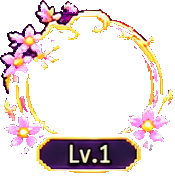
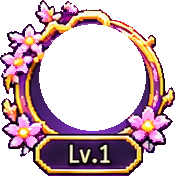
[Hình] Nhiệm vụ ngày: một dấu ✓ (xanh xong, xám chưa), bỏ khung; chân dung: mặt tròn khớp giữa lòng vòng, to hơn
Claude-Session: https://claude.ai/code/session_01BVnJmsGG4jWdJUy17v59Cp

Changed region(s): [[0.0, 0.0852, 1.0, 1.0]]

diff --git a/style-ui-kit.css b/style-ui-kit.css
@@ -61,14 +61,11 @@ body #btn-atk, body[data-le] #btn-atk { background: radial-gradient(circle, #2a1
 body #btn-atk::after, body[data-le] #btn-atk::after { background-image: url("assets/art/ui-k-atk.png") !important; inset: -16% !important; animation: none; }
 body #btn-atk b { opacity: 0; }
 
-/* ---- cột nhiệm vụ hằng ngày: khung bảng góc vàng, đèn lồng treo góc trái ---- */
-body .quest-dock { border: 10px solid transparent; border-image: url("assets/art/ui-k-panel.png") 24 fill / 10px / 0 stretch; image-rendering: auto;
-  padding: 2px 4px; align-items: flex-start; text-align: left; max-width: 40%; font-size: 10.5px; }
-body .quest-dock::before { content: ''; position: absolute; left: -22px; top: -12px; width: 14px; height: 44px; background: url("assets/art/ui-k-den.png") top / contain no-repeat;
-  image-rendering: auto; animation: uk-den 2.4s ease-in-out infinite alternate; transform-origin: top center; pointer-events: none; }
-@keyframes uk-den { from { transform: rotate(-4deg); } to { transform: rotate(4deg); } }
-body .quest-dock .qd-head { align-self: center; color: #ffe6a0; font-size: 12px; margin-bottom: 2px; }
-body .quest-dock .qd-line.done::before { content: '✓ '; color: #6ae07a; }
+/* ---- cột nhiệm vụ hằng ngày: chữ trơn không khung (chủ dự án 02/11/2026 23:06); mỗi dòng một dấu ✓: xanh là xong, xám là chưa (quest-dock.js) ---- */
+body .quest-dock { align-items: flex-start; text-align: left; max-width: 38%; }   /* không chạm cột nút bên trái */
+body .quest-dock .qd-head { align-self: flex-start; }
+.qd-ck { color: #8a8698; margin-right: 3px; }
+.qd-line.done .qd-ck, .qd-line.ready .qd-ck { color: #5ef07a; }
 
 /* ---- ô trò chuyện ---- */
 body .chat-dock .cd-input { border: 6px solid transparent; border-image: url("assets/art/ui-k-chat.png") 12 54 12 12 fill / 6px 24px 6px 6px / 0 stretch; border-right-width: 24px; white-space: nowrap; overflow: hidden;

diff --git a/style-ui-kit2.css b/style-ui-kit2.css
@@ -62,11 +62,11 @@ body #hud #boss .bar { position: absolute; left: 27%; right: 4%; top: 52%; heigh
 body #hud #boss .bar i { background: linear-gradient(#ff7a6a, #c02838); }
 
 /* ---- khung chân dung theo hệ (src/ui/hud-ava.js) ---- */
-body #hud .bars:has(#uk-ava) { position: relative; padding-left: 62px; min-height: 64px; }
-body #hud .bars:has(#uk-ava) .hud-btns { margin-left: -62px; }   /* cột nút vẫn sát mép trái, không đè cột nhiệm vụ */
-#uk-ava { position: absolute; left: -2px; top: -4px; width: 62px; height: 64px; pointer-events: auto; cursor: pointer; }
+body #hud .bars:has(#uk-ava) { position: relative; padding-left: 66px; min-height: 66px; }
+body #hud .bars:has(#uk-ava) .hud-btns { margin-left: -66px; }   /* cột nút vẫn sát mép trái, không đè cột nhiệm vụ */
+#uk-ava { position: absolute; left: -4px; top: -6px; width: 66px; height: 70px; pointer-events: auto; cursor: pointer; }
 #uk-ava canvas { position: absolute; left: 11px; top: 8px; width: 40px; height: 40px; border-radius: 50%; image-rendering: auto; }
-#uk-ava i { position: absolute; inset: 0; background: var(--ava) center top / 62px auto no-repeat; image-rendering: auto; }
+#uk-ava i { position: absolute; inset: 0; background: var(--ava) left top / 66px auto no-repeat; image-rendering: auto; }
 #uk-ava b { position: absolute; left: 50%; bottom: 3px; transform: translateX(-50%); min-width: 34px; padding: 0 3px; background: #2a1838; border-radius: 3px;
   font: 400 11px var(--f-pixel); color: #fff1c8; text-align: center; line-height: 12px; }
 

diff --git a/src/ui/hud-ava.js b/src/ui/hud-ava.js
@@ -5,6 +5,9 @@ import { spriteImage } from '../render/sprites.js';
 import { outfitSprite } from '../render/draw-hero.js';
 
 const FRAME = { moc: 'hoa-sen', hoa: 'hoa', thuy: 'thuy', kim: 'kim', tho: 'kim' };
+// lòng vòng từng khung: [tâm x / rộng, tâm y / cao, bán kính / rộng, cao / rộng] (đo trên hình, tools/art/ui_kit2.py → AVA_HOLE)
+const HOLE = { 'hoa-sen': [0.526, 0.438, 0.314, 1.006], kim: [0.489, 0.451, 0.331, 1.068], thuy: [0.474, 0.469, 0.326, 1.089], hoa: [0.5, 0.458, 0.343, 1.075], phong: [0.481, 0.458, 0.326, 1.067] };
+const W = 66;   // bề ngang khung trên màn hình
 
 export function createHudAva(game) {
   const box = document.createElement('div'); box.id = 'uk-ava'; box.hidden = true;
@@ -23,6 +26,9 @@ export function createHudAva(game) {
     if (k === key) return;
     key = k; lv.textContent = L;
     fr.style.setProperty('--ava', `url("assets/art/ui-k-ava-${fk}.png")`);
+    const [hx, hy, hr, ar] = HOLE[fk], d = Math.round(hr * W * 2) + 2;   // mặt tròn khớp lòng vòng (lớn hơn 2 điểm cho kín mép)
+    Object.assign(cv.style, { width: d + 'px', height: d + 'px', left: Math.round(hx * W - d / 2) + 'px', top: Math.round(hy * W * ar - d / 2) + 'px' });
+    box.style.height = Math.round(W * ar) + 'px';
     const im = spr && spriteImage(spr), c = cv.getContext('2d');
     c.clearRect(0, 0, 40, 40); c.fillStyle = '#2a1838'; c.fillRect(0, 0, 40, 40);
     if (!im) return;

diff --git a/src/ui/quest-dock.js b/src/ui/quest-dock.js
@@ -24,7 +24,9 @@ export function createQuestDock(game) {
   let hide = getHide(), key = '', loaded = 0;
 
   const line = (cls, text, onTap) => {
-    const d = el('div', 'qd-line ' + cls, text);
+    const d = el('div', 'qd-line ' + cls);   // một dấu ✓ đầu dòng: xanh là xong, xám là chưa (style-ui-kit.css)
+    if (cls === 'more') d.textContent = text;
+    else d.append(el('span', 'qd-ck', '✓'), text.replace(/^[✓▸•]\s*/, ''));
     if (onTap) d.onclick = () => { onTap(); key = ''; paint(); };
     return d;
   };

diff --git a/tools/art/ui_kit2.py b/tools/art/ui_kit2.py
@@ -11,6 +11,8 @@ from le_hoi import _key
 from ui_kit import _cut, _px, _main, _icon, _ring
 
 SRC = Path(__file__).resolve().parent / 'nguon' / 'ai' / 'ui' / 'ui-kit-2.png'
+# tâm, bán kính lòng vòng chân dung theo tỉ lệ bề ngang / cao hình (đo tia từ tâm tới vòng vàng); src/ui/hud-ava.js dùng cùng số
+AVA_HOLE = {'hoa-sen': (0.526, 0.438, 0.314), 'kim': (0.489, 0.451, 0.331), 'thuy': (0.474, 0.469, 0.326), 'hoa': (0.5, 0.458, 0.343), 'phong': (0.481, 0.458, 0.326)}
 AVA = {'hoa-sen': (15, 12, 194, 192), 'kim': (210, 26, 349, 173), 'thuy': (362, 22, 501, 173), 'hoa': (511, 25, 650, 173), 'phong': (662, 25, 802, 173)}
 ROUND = {'loa': (835, 60, 915, 140), 'loa-tat': (921, 60, 1001, 140), 'mat': (1005, 60, 1086, 140), 'mat-tat': (1090, 60, 1170, 140)}
 TILES = ['tu-hanh', 'linh-thu', 'thanh-tuu', 'dao-huu', 'bang-hoi', 'cua-hang', 'lo-dan', 'lo-ren', 'duoc-vien']
@@ -39,6 +41,14 @@ def _hole(b):
     return b
 
 
+def _circle(b, hole):
+    """Khoét lòng tròn chân dung trong suốt (mặt nhân vật vẽ dưới khung)."""
+    h, w = b.shape[:2]; cx, cy, r = hole[0] * w, hole[1] * h, hole[2] * w * 0.97
+    yy, xx = np.mgrid[0:h, 0:w]; b = b.copy()
+    b[(yy - cy) ** 2 + (xx - cx) ** 2 < r * r, 3] = 0
+    return b
+
+
 def build(save):
     a = _key(np.array(Image.open(SRC).convert('RGB')))
     n = 0
@@ -47,7 +57,7 @@ def build(save):
         c = Canvas(arr.shape[1], arr.shape[0]); c.a = np.ascontiguousarray(arr, dtype=np.uint8)
         save(sid, [c], (c.w // 2, c.h // 2), note + ' (ảnh GPT nguon/ai/ui/ui-kit-2.png)'); n += 1
     for k, box in AVA.items():
-        put('ui.k-ava-' + k, _hole(_main(_px(_cut(a, box)))), 'khung chân dung ' + k + ' (ô Lv có chữ mẫu, game phủ chữ cấp lên)')
+        put('ui.k-ava-' + k, _circle(_main(_px(_cut(a, box))), AVA_HOLE[k]), 'khung chân dung ' + k + ' (ô Lv có chữ mẫu, game phủ chữ cấp lên)')
     for k, box in ROUND.items():
         put('ui.k-nut-' + k, _main(_px(_cut(a, box))), 'nút vuông ' + k)
     for k, x in zip(TILES, TILE_X):
